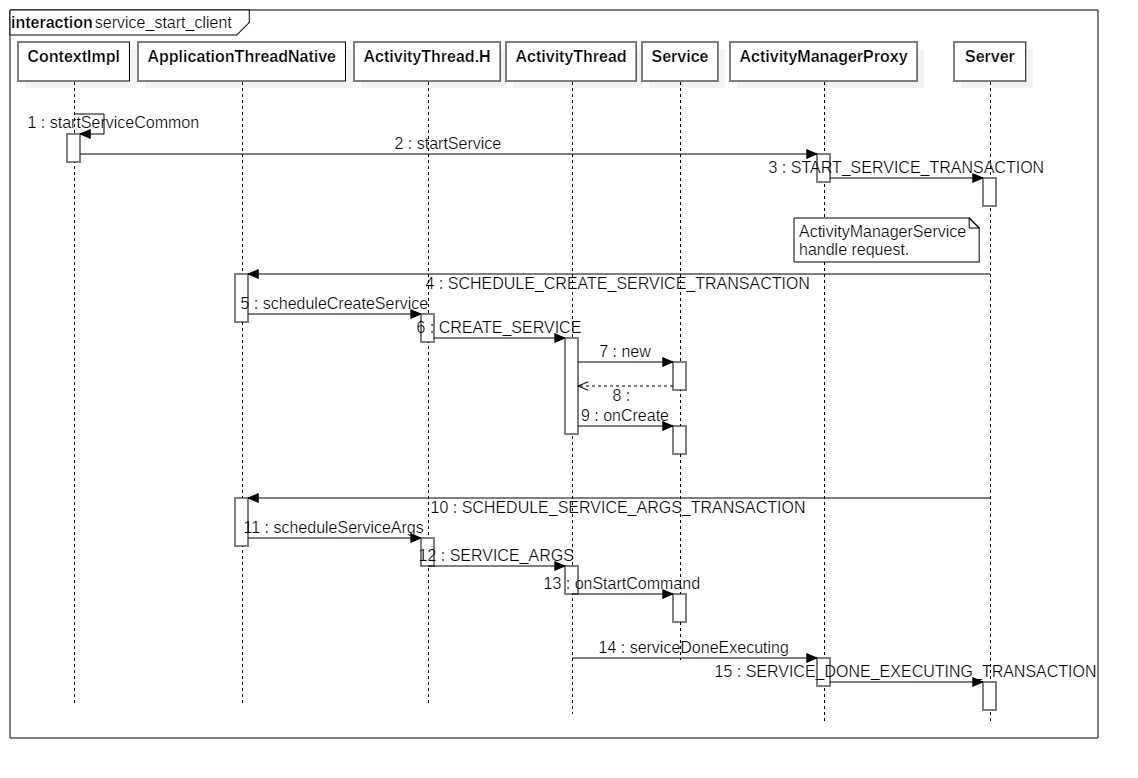
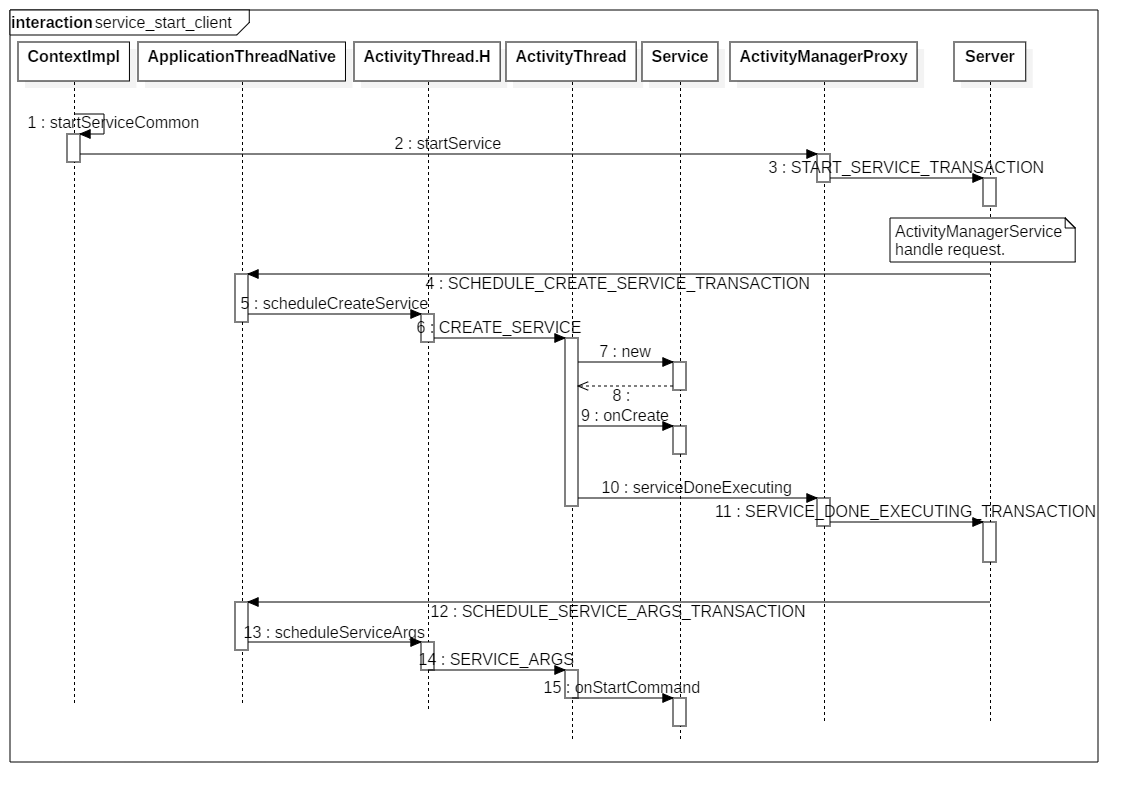
Add: release service start

diff --git a/android-notes-system/android_component_service_start.md b/android-notes-system/android_component_service_start.md
@@ -1206,3 +1206,10 @@ private void handleServiceArgs(ServiceArgsData data) {
 
 ## 时序图
 
+时序图分为两部分，首先是客户端（应用进程）的处理流程，`Server` 表示 `ActivityManagerService` 系统服务端的处理流程。
+
+![service_start_client](./image/android_component_service_start/service_start_client.png)
+
+然后是服务端的处理流程，`Client` 端表示客户端处理流程，即上图。
+
+![service_start_server](./image/android_component_service_start/service_start_server.png)

diff --git a/android-notes-system/README.md b/android-notes-system/README.md
@@ -25,3 +25,6 @@ Binder 分析
 四大组件分析
 
 [Android Activity 启动流程分析](./android_component_activity_start.md)
+
+[Android Service 启动流程分析](./android_component_service_start.md)
+
